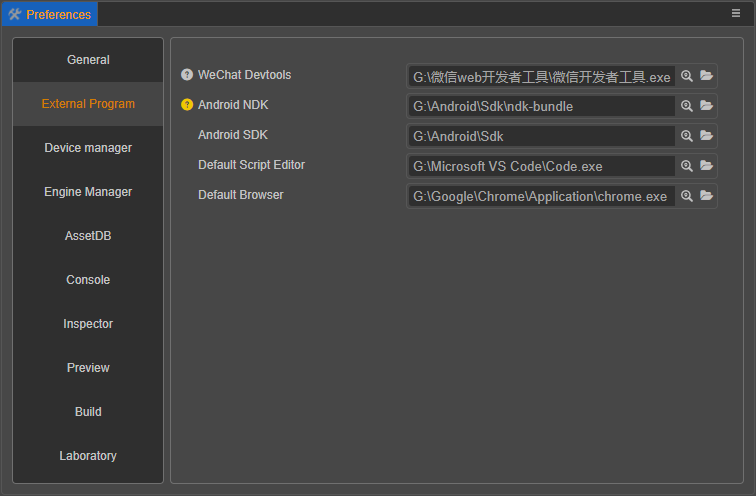
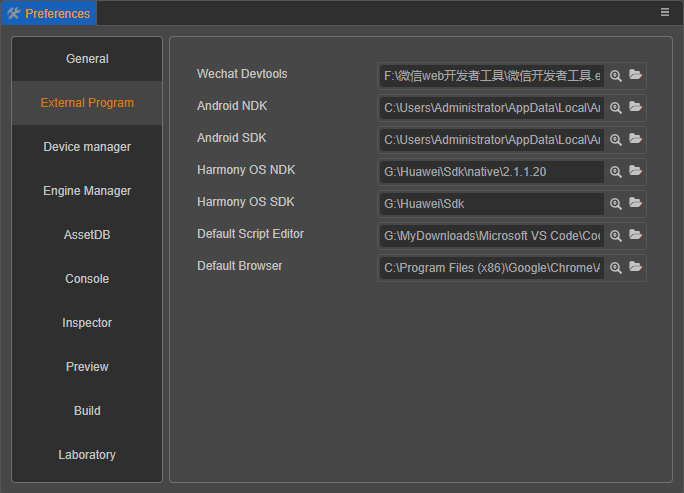
完善 PhysX 物理相关

diff --git a/en/editor/publish/publish-bytedance-mini-game.md b/en/editor/publish/publish-bytedance-mini-game.md
@@ -6,36 +6,86 @@
 
 The game submission, review and release process of a mini-game needs to comply with the requirements and standard processes of the Byte official specification. For specific information, please refer to the links at the end of this document.
 
-## Publish to ByteDance with Cocos Creator
+## Preparation
 
-1. Download the [ByteDance DevTools [cn]](https://microapp.bytedance.com/docs/zh-CN/mini-game/develop/developer-instrument/developer-instrument-update-and-download).
+1. Download the [ByteDance DevTools [cn]](https://microapp.bytedance.com/docs/zh-CN/mini-game/develop/developer-instrument/developer-instrument-update-and-download) and install it..
 
-2. Log in to [Developer Platform [cn]](https://microapp.bytedance.com/)to find your `mini game appid`. For details, please refer to the official [Access Guide [cn]](https://microapp.bytedance.com/docs/zh-CN/mini-game/introduction/plugin-reference/sign) documentation.
+2. Refer to the [ByteDance Mini Game Access Guide [cn]](https://microapp.bytedance.com/docs/zh-CN/mini-game/introduction/plugin-reference/sign/) to register, login and apply for mini games on the [ByteDance Developer Platform [cn]](https://microapp.bytedance.com/).
+
+3. After the application is approved, find the appid in **Development Management -> Development Settings** of the developer platform.
 
     ![appid](./publish-bytedance-mini-game/appid.png)
 
-3. Select the **ByteDance Mini Game** in the **Platform** in the **Build** panel, fill in the `mini game appid`, and then click **Build**
+## Publishing Process
+
+1. Use Cocos Creator to open the project to be published, open the **Build** panel from **Menu Bar -> Project**, select **ByteDance Mini Game** in **Platform**, fill in the **appid**, and click **Build**.
 
     ![build](./publish-bytedance-mini-game/build.png)
 
-4. Preview game
+    Click on the **ByteDance Mini Game** below to expand the build options configuration of ByteDance Mini Game:
 
-    Following this process, a `bytedance-mini-game` folder will be generated in the project's **build** directory (the name of the folder is based on the **Build Task Name**), then you can open your game with the **ByteDance DevTools**.
+    ![ByteDance options](./publish-bytedance-mini-game/build-options.png)
+
+    For the general build options settings, please refer to [General Build Options](build-options.md) for details. The ByteDance Mini Games specific build options are shown below, please refer to the **Build Options** section below for the filling rules.
+
+2. After the relevant parameters of the **Build** panel are set, click **Build** button.<br>When the build is complete, click the folder icon button below the corresponding build task to open the build release path, notice that a directory `bytedance-mini-game` (with the same name as the Build Task Name) is generated in the default release path `build` directory, which already contains the configuration files `game.json` and `project.config.json` of the ByteDance Mini Games environment.
+
+    ![package](./publish-bytedance-mini-game/package.png)
+
+3. Use the **ByteDance DevTools** to open the `bytedance-mini-game` folder generated by the build, open the ByteDance game project and preview the debugging game content. Please refer to the [Introduction to ByteDance DevTools [cn]](https://microapp.bytedance.com/docs/zh-CN/mini-game/develop/developer-instrument/development-assistance/mini-app-developer-instrument) for details on how to use the developer tools.
 
     ![tool](./publish-bytedance-mini-game/tool.jpg)
 
-## Build Options
+### Build Options
 
-Options | Optional or not | Default | Explanation
-- | - | - | -
-**appid** | Required | `testId` | The appid of the ByteDance Mini Games, it will be written to `project.config.json` file.
-**appSecret** | Currently only required when using PhysX | Empty | the AppSecret corresponding to the appid of the ByteDance Mini Games.
-**Remote server address** | Optional | Empty | The remote server address. Resources will then be obtained from this address.
-**Open data context root** | Optional | Empty | If an Open Data Context exists, use this root to specify the relative path of the Open Data Context folder in the build directory so that the directory is not overwritten or modified during the build.
-**Orientation** | Required | `landscape` | Device orientation, it will be written to `game.json` file.
-**physX.multiThread**| Optional | `false` | Only valid when using PhysX, whether to use multi-threaded mode.
-**physX.subThreadCount** | Optional | `1` | Only valid when using PhysX and use multi-threaded mode, the number of child threads.
-**physX.epsilon** | Optional | `0.001` | Only valid when using PhysX, the tolerance error.
+| Options | Description | Field name (for publishing with command line) |
+| :-- | :-- | :--
+| **Start Scene Asset Bundle** | If set, the start scene and its related dependent resources are built into the built-in Asset Bundle — [start-scene](../../asset/bundle.md#%E5%86%85%E7%BD%AE-asset-bundle) to speed up the resource loading of the start scene. | `startSceneAssetBundle` |
+| **Orientation** | Device orientation, it will be written to `game.json` file. | `orientation` |
+| **AppID** | The appid of the ByteDance Mini Games, it will be written to `project.config.json` file. | `appid` |
+| **appSecret** | The AppSecret corresponding to the AppID, used to pull the PhysX support library. Required only if **Project -> Project Settings -> Function Crop -> Physics System** in the main menu is set to **PhysX**. | `appSecret` |
+| **Remote server address** | This option is used to fill in the address of the remote server where the resources are stored. Developers need to manually upload the `remote` folder from the release package directory to the filled resource server after build. | `remoteServerAddress` |
+| **Open data context root** | For access to Open Data Context, please refer to the [Open Data Context](./build-open-data-context.md) documentation for details. | `buildOpenDataContextTemplate` |
+| **physX.multiThread**| If checked, multi-threaded mode is enabled, and only takes effect when **Project -> Project Settings -> Function Crop -> Physics System** in the main menu is set to **PhysX**. | `physX.multiThread` |
+| **physX.subThreadCount** | The number of child threads when multi-threaded mode is enabled, and only takes effect when using **PhysX** physics. | `physX.subThreadCount` |
+| **physX.epsilon** | Tolerance of errors, only takes effect when using **PhysX** physics. If this option is enabled, the precision will be lower when using multi-threaded mode than single-threaded. | `physX.epsilon` |
+
+## Native Physics
+
+The ByteDance platform has always been committed to providing developers with the more powerful performance and basic capabilities. TikTok will provide PhysX native physics interfaces for ByteDance mini games in v16.3 and later versions.
+
+Cocos Creator and the ByteDance platform have conducted in-depth collaboration, with the experimental feature in **v3.2** to support the use of PhysX physics capabilities provided by the ByteDance platform in ByteDance Mini Games, optimizing the performance of physics calculations, and having a nearly 100% performance improvement compared to Bullet physics:
+
+![compare performance](./publish-bytedance-mini-game/performance.png)
+
+The prerequisite for using native physics is to set **Physics System** to **PhysX** in **Project -> Project Settings -> Feature Crop** in the Creator main menu bar. Then open the **Build** panel with the **Platform** option set to **ByteDance Mini Game**, and see the native physics related configuration options as follows:
+
+![PhysX options](./publish-bytedance-mini-game/physx-options.png)
+
+For specific option descriptions, please refer to the **Build Options** section above.
+
+> **Note**:
+> 1. Currently, the native physics of the ByteDance platform only supports the Android version of TikTok, and the version must be greater or equal to v16.3.
+> 2. The ByteDance DevTools does not support running native physics, only previewing and debugging on a real devices.
+
+## Subpackage Loading
+
+The ByteDance Mini Game requires a specific version to support the subpackage feature, and the version requirements for the ByteDance product are as follows:
+
+| Product | Android     | iOS        |
+| :--     | :---        | :---       |
+| TikTok  | v13.6.0     | v13.7.0    |
+| TouTiao | v7.9.9      | v7.9.8     |
+
+For ByteDance DevTools, please use **v2.0.6** or above, but below **v3.0.0**. After updating the DevTools, don't forget to modify the **Debug Base library** to **1.88.0** or above in the ByteDance DevTools.
+
+> **Note**: if the product version does not support subpackage loading, the engine will load the subpackage as a normal asset bundle.
+
+Currently, the size of the ByteDance Mini Game subpackage has following restrictions:
+- The size of all subpackages of the entire mini game cannot exceed **16 M**
+- The size of a single subpackage/main package cannot exceed **4 M**
+
+For details, please refer to the [ByteDance Subpackage Loading Official Documentation [zh]](https://microapp.bytedance.com/docs/zh-CN/mini-game/develop/framework/subpackages/introduction)
 
 ## Asset Management for ByteDance Mini Game Environment
 
@@ -58,31 +108,6 @@ Specifically, developers need to do the following:
 3. When the build is complete, upload the **res** folder in the mini game release package to the server.
 4. Delete the **res** folder inside the local release package.
 5. For the test phase, you may not be able to deploy to the official server, you need to use the local server to test, then open the details page in the WeChat DevTools, check the `Does not verify valid domain names, web-view (business domain names), TLS versions and HTTPS certificates` option in the **Local Settings**.
-
-## Subpackage Loading
-
-The ByteDance Mini Game requires a specific version to support the subpackage feature, and the version requirements for the ByteDance product are as follows:
-
-| Product | Android     | iOS        |
-| :--     | :---        | :---       |
-| TikTok  | v13.6.0     | v13.7.0    |
-| TouTiao | v7.9.9      | v7.9.8     |
-
-For ByteDance DevTools, please use **v2.0.6** or above, but below **v3.0.0**. After updating the DevTools, don't forget to modify the **Debug Base library** to **1.88.0** or above in the ByteDance DevTools.
-
-> **Note**: if the product version does not support subpackage loading, the engine will load the subpackage as a normal asset bundle.
-
-Currently, the size of the ByteDance Mini Game subpackage has following restrictions:
-- The size of all subpackages of the entire mini game cannot exceed **16 M**
-- The size of a single subpackage/main package cannot exceed **4 M**
-
-For details, please refer to the [ByteDance Subpackage Loading Official Documentation [zh]](https://microapp.bytedance.com/docs/zh-CN/mini-game/develop/framework/subpackages/introduction)
-
-## Native Physics
-
-After the **v3.2** version, Cocos Creator has added the relevant parameters for configuring native physics in the build panel of the ByteDance platform (for details, please see the introduction of build options). The way to enable native physics is in While building the ByteDance Mini Game project, choose the **PhysX** physics module.
-
-> **Note**: ByteDance native physics only exists in the Android version of TikTok, and the version must be greater than or equal to **v16.3**, and the ByteDance DevTools does not support running native physics, only previewing and debuging on a real machine.
 
 ## Reference documentation
 

diff --git a/en/physics/physics-item.md b/en/physics/physics-item.md
@@ -1,14 +1,14 @@
 # Choosing The Physics System Suitable For Your Project
 
-In the panel **Project -> Project Settings -> Module Options** of the Editor, you can choose a physics engine suitable for the needs of the project for development.
+Click **Project -> Project Settings -> Feature Crop -> Physics System** in the editor's menu bar, to select the appropriate physics engine for development according to the project requirements. The default physics engine is **bullet（ammo.js）**, and the physics engine can be switched at will during the development process.
 
-![Physics Engine Options](img/physics-module.jpg)
+![Physics Engine Options](img/physics-module.png)
 
-> **Notes**:
-> 1. The default is `bullet(ammo.js)` physics engine.
-> 2. The physics engine can be switched at will during development.
+If there is no need to use any physically related components and interfaces, uncheck the "Physical System" checkbox and the package will be smaller when published. However, it should be noted that if the checkbox is unchecked, the project cannot use physically related components and interfaces, otherwise errors will be reported at runtime.
 
-## Collision Detection: builtin
+## Physics Engine Types
+
+### Collision Detection: builtin
 
 __builtin__ only has the function of collision detection. Compared with other physics engines, it has no complicated physical simulation calculations. If your project does not require the physical simulation of this part, you can consider using __builtin__, which will make the size of game's package smaller.
 
@@ -17,66 +17,59 @@ If you use __builtin__ for development, please note the following:
 - __builtin__ only has events of type __trigger__.
 - __isTrigger__ in __Collider__ component is a trigger regardless of whether the value is true or false.
 
-## Physics Engine: cannon.js
+### Physics Engine: cannon.js
 
 [cannon.js](https://github.com/cocos-creator/cannon.js) is an open source physics engine, which uses js language to develop and implement more comprehensive physics functions, if your project needs more complex physical functions, then you can consider using [cannon.js](https://github.com/cocos-creator/cannon.js). The size of the __cannon.js__ module is __141KB__.
 
-## Physics Engine: bullet(ammo.js)
+### Physics Engine: bullet(ammo.js)
 
 [ammo.js](https://github.com/cocos-creator/ammo.js) is the __asm.js__/__wasm__ Version of the [bullet](https://github.com/bulletphysics/bullet3) physics engine, it is compiled by [emscripten](https://github.com/emscripten-core/emscripten) tool. Bullet has perfect physical functions, and we will put more work here in the future.
 
 It should be noted that currently the __ammo.js__ module has a size of about __1.5MB__.
 
-## Physics Engine: PhysX
+### Physics Engine: PhysX
 
-**PhysX**（[GitHub](https://github.com/NVIDIAGameWorks/PhysX)）is an open source real-time commercial physics engine developed by Nvidia. It has perfect functional characteristics and extremely high stability, as well as excellent performance. 
+[PhysX](https://github.com/NVIDIAGameWorks/PhysX) is an open source real-time commercial physics engine developed by Nvidia. It has perfect functional characteristics and extremely high stability, as well as excellent performance.
 
-The **PhysX** currently supported in Cocos Creator is version 4.1 and is allowed to be used on most platforms. However, due to the large size of **PhysX** and some limitations of its own, there are some platforms Unable to get good support, these platforms are:
+The **PhysX** currently supported in Cocos Creator is version 4.1 and is allowed to be used on most platforms. PhysX physics is recommended for better physics performance when publishing to native platforms, especially when publishing to iOS.
 
-- Various Mini Games platforms with package body restrictions (the reason is that the package body of the **PhysX** library is about 5 MB)
-- Android x86 device
+However, due to the large package size of the **PhysX** (about 5MB) and some limitations of its own, it is not well supported on some platforms, including:
 
-Some newer platforms, such as HarmonyOS and Apple M1 devices, will be supported in the future. Please pay attention to the update announcement. In addition, the ByteDance platform provides the underlying native physics, so this module can also be run in ByteDance Mini Games. For specific details, please refer to [publish ByteDance Mini Games](../editor/publish/publish-bytedance-mini-game.md).
+- Various mini game platforms with package size restrictions.
+- Android x86 device.
 
-When publishing to the native platform, it is strongly recommended to use this module, to get good performance, especially the native application of the IOS system.
+Some newer platforms, such as HarmonyOS, Apple M1 (Silicon) architecture devices, will be supported in the future. Please pay attention to the update announcement.
 
-## Turning Off Physics
-
-To turn off physics and related components and interfaces, uncheck the yellow box, which helps lessen the package size when publishing.
-
-> **Note**: if it is unchecked, the project will not be able to use physics related components and interfaces, otherwise an error will be reported during runtime.
+In addition, the ByteDance platform provides the underlying native physics functionality, so this functionality can also be run in ByteDance Mini Games. For specific details, please refer to [publish ByteDance Mini Games](../editor/publish/publish-bytedance-mini-game.md).
 
 <!-- ## Expand the physical backend -->
 
-# Physics Engine Performance
+## Physics Engine Performance
 
 Mainly for various Mini Games platforms and native platforms, and compare **Bullet** and **PhysX**:
 
-- On native and ByteDance platforms, using **PhysX** can get the best performance
-- On various Mini Games platforms, use **Bullet** to get the best performance
+- On native and ByteDance Mini Game platforms, using **PhysX** can get the best performance.
+- On various Mini Game platforms, use **Bullet** to get the best performance.
 
-# Physics Engine Differences
+## Physics Engine Differences
 
 Different physics engines have different internal designs and algorithms, so there will be some different behaviors under the same parameters. These differences are mainly:
 
 - `damping` property on RigidBody components
+
+    The damping term is different because PhysX uses different damping algorithm models. But this difference has been eliminated internally. To synchronize the damping value previously set in PhysX, refer to the following code to convert:
+
+    ```ts
+    const dt = PhysicsSystem.instance.fixedTimeStep;
+    const newDamping = 1 - (1 - oldDamping * dt) ** (1 / dt);
+    ```
+
 - `factor` property on RigidBody components
-- PhysicsMaterial
 
-Difference details and some solutions:
+    This is caused by the fact that PhysX physics only fixes the degrees of freedom of the rigid body, and does not provide a scaling factor for the rigid body velocity, that is, the `Linear Factor` and `Angular Factor` properties in the rigid body component only have a fixed effect on PhysX physics. This difference will be removed internally.
 
-1. `damping`
-The damping term is different because PhysX uses different damping algorithm models.
-However, this difference has been eliminated internally. To synchronize the damping value previously set in PhysX, refer to the following code to convert:
-```ts
-const dt = PhysicsSystem.instance.fixedTimeStep;
-const newDamping = 1 - (1 - oldDamping * dt) ** (1 / dt);
-```
+- Physics material
 
-2. `factor`
-Scaling factor. Since PhysX has only limited functions, when using the PhysX module, when the factor is 0, it means that the movement of the corresponding axis is restricted. When it is not 0, it means that the corresponding axis can move freely. This difference will be eliminated internally in the future.
-
-3. PhysicsMaterial
-The physics material in PhysX supports static friction coefficient, dynamic friction coefficient and elastic coefficient. Compared with the PhysicsMaterial resources in Cocos Creator, it lacks the dynamic friction coefficient. The coefficient is currently consistent with the static friction coefficient. The difference in this part cannot be Provide expressions for conversion.
+    The physics material in PhysX supports static friction coefficient, dynamic friction coefficient and elastic coefficient. Compared with the PhysicsMaterial resources in Cocos Creator, it lacks the dynamic friction coefficient. The coefficient is currently consistent with the static friction coefficient. The difference in this part cannot be Provide expressions for conversion.
 
 In addition to the points mentioned above, there are also differences in other algorithms, such as differences in numerical integration methods, LCP solving algorithms, solution accuracy, etc., so there will always be different effects, but these are not easy in actual project development. Perception.

diff --git a/zh/editor/publish/publish-bytedance-mini-game.md b/zh/editor/publish/publish-bytedance-mini-game.md
@@ -22,7 +22,7 @@
 
     通用构建选项的设置请参考 [通用构建选项](build-options.md)，字节跳动小游戏特有的构建选项如下，具体说明请参考下文 **构建选项** 部分的内容。
 
-    ![bytedance-options](./publish-bytedance-mini-game/bytedance-build.png)
+    ![bytedance-options](./publish-bytedance-mini-game/build-options.png)
 
 2. **构建发布** 面板的构建选项设置完成后，点击 **构建**。<br>
     构建完成后点击 **构建任务** 左下角的文件夹图标按钮打开项目发布包，可以看到在默认发布路径 `build` 目录下生成了 `bytedance-mini-game`（以具体的构建任务名为准）文件夹，其中已经包含了字节跳动小游戏环境的配置文件 `game.json` 和 `project.config.json`。
@@ -33,19 +33,35 @@
 
     ![tool](./publish-bytedance-mini-game/tool.png)
 
-### 构建选项介绍
+### 构建选项
 
 | 构建选项 | 说明 | 字段名（用于命令行发布） |
 | :---- | :-- | :-- |
 | 初始场景分包 | 勾选后，首场景及其相关的依赖资源会被构建到发布包目录 `assets` 下的内置 Asset Bundle — [start-scene](../../asset/bundle.md#%E5%86%85%E7%BD%AE-asset-bundle) 中，提高初始场景的资源加载速度。 | `startSceneAssetBundle` |
 | 设备方向 | 可选值包括 **Portrait** 和 **Landscape**。构建时会写入到发布包目录下的 `game.json` 文件中 | `orientation` |
 | AppID | 必填项，字节跳动小游戏的 AppID，构建时会写入到发布包目录下的 `project.config.json` 文件中。 | `appid` |
-| AppSecret | 目前仅在使用 PhysX 物理时必填，字节跳动小游戏 AppID 对应的 AppSecret。 | `appSecret` |
+| AppSecret | AppID 对应的 AppSecret，用于拉取 PhysX 支持库，仅在物理系统选择为 **PhysX 物理** 时必填 | `appSecret` |
 | 资源服务器地址 | 用于填写资源存放在远程服务器上的地址。开发者需要在构建后手动将发布包目录下的 `remote` 文件夹上传到所填写的资源服务器地址上。详情请参考 [上传资源到远程服务器](../../asset/cache-manager.md) | `remoteServerAddress` |
 | 生成开放数据域工程模板 | 用于接入开放数据域，详情请参考 [开放数据域](./build-open-data-context.md) | `buildOpenDataContextTemplate` |
-| PhysX - multiThread | 仅在使用 PhysX 物理时有效，是否使用多线程模式 | `physX.multiThread` |
-| PhysX - subThreadCount | 仅在使用 PhysX 物理且开启多线程模式时有效，子线程个数 | `physX.subThreadCount` |
-| PhysX - epsilon | 仅在使用 PhysX 物理时有效，容忍误差 | `physX.epsilon` |
+| PhysX - multiThread | 是否启用多线程模式，仅在使用 PhysX 物理时生效 | `physX.multiThread` |
+| PhysX - subThreadCount | 启用多线程模式时子线程的个数，仅在使用 PhysX 物理时生效 | `physX.subThreadCount` |
+| PhysX - epsilon | 容忍误差，仅在使用 PhysX 物理时生效。若启用该项，则使用多线程模式时的精度会比单线程的低。 | `physX.epsilon` |
+
+## 原生物理
+
+字节跳动平台一直致力于为开发者提供更强大的性能和基础能力，抖音将在 v16.3 及之后的版本为小游戏提供 PhysX 原生物理接口。而 Creator 与字节跳动平台进行了深度合作，在 **v3.2** 中以实验性功能支持在字节跳动小游戏中使用平台提供的 PhysX 物理能力，优化物理运算性能，对比使用 Bullet 物理有近 100% 的性能提升：
+
+![compare performance](./publish-bytedance-mini-game/performance.png)
+
+使用原生物理的前提是需要在主菜单栏的 **项目 -> 项目设置 -> 功能裁剪** 中将 **物理系统** 设置为 **PhysX 物理**。然后打开 **构建发布** 面板，**发布平台** 选择 **字节跳动小游戏**，可以看到原生物理相关的配置选项如下：
+
+![PhysX options](./publish-bytedance-mini-game/physx-options.png)
+
+具体的选项说明请参考上文 **构建选项介绍** 部分的内容。
+
+> **注意**：
+> 1. 字节跳动平台的原生物理目前仅支持安卓版本的抖音，且版本需大于等于 **v16.3**。
+> 2. 字节跳动开发者工具目前还不支持运行原生物理，只能真机预览和调试。
 
 ## 分包加载
 
@@ -73,12 +89,6 @@
 字节跳动小游戏与微信小游戏类似，都存在着包体限制，超过 4MB 的额外资源，必须通过网络请求下载。
 
 我们建议用户只保存脚本文件在小游戏包内，其他资源都从远程服务器下载。Cocos Creator 已经帮用户做好了远程资源的下载、缓存和版本管理，详情可参考 [缓存管理器](../../asset/cache-manager.md)。
-
-## 原生物理
-
-在 **v3.2** 版本后，Cocos Creator 在字节平台的构建面板中增加了配置字节原生物理的相关参数（详细说明请看构建选项介绍），开启字节原生物理的方式是在构建字节小游戏项目的同时，选择 **PhysX** 物理模块。
-
-但需要注意的是，目前字节原生物理仅存在于安卓版本的抖音，且版本需大于等于 **v16.3** ，并且字节开发者工具还不支持运行字节原生物理，因此只能真机预览和调试。
 
 ## 参考链接
 

diff --git a/zh/editor/publish/publish-huawei-ohos.md b/zh/editor/publish/publish-huawei-ohos.md
@@ -48,9 +48,11 @@
 
 2. 准备签名文件，签名文件的获取方式请参考下文 **签名文件** 部分的内容。
 
-3. 配置签名文件。点击 DevEco Studio 菜单栏中的 **File -> Project Structure**，然后选择 **Modules -> entry**，在 **Signing Configs** 页面 [配置签名信息](https://developer.harmonyos.com/cn/docs/documentation/doc-guides/ide_debug_device-0000001053822404#ZH-CN_TOPIC_0000001154985555__section19238119191816)。
+3. 配置签名文件。点击 DevEco Studio 菜单栏中的 **File -> Project Structure**，选择 **Modules -> entry**，在 **Signing Configs** 页面 [配置签名信息](https://developer.harmonyos.com/cn/docs/documentation/doc-guides/ide_debug_device-0000001053822404#ZH-CN_TOPIC_0000001154985555__section19238119191816)。
 
     ![sign configs](./publish-huawei-ohos/sign-configs-debug.png)
+
+    然后继续在 **Project -> Signing Configs** 中配置签名信息。
 
     设置完成并保存后，配置的签名信息可以在项目目录下的 `native\engine\ohos\entry\build.gradle` 文件中查看。
 
@@ -73,6 +75,8 @@
 5. 使用 USB 连接 HarmonyOS 系统的华为设备，然后点击菜单栏中的 **Run -> Run ‘entry’**，或者点击上方的运行按钮，即可将 HarmonyOS 应用运行到设备上。详情可参考 [运行 HarmonyOS 应用](https://developer.harmonyos.com/cn/docs/documentation/doc-guides/run_phone_tablat-0000001064774652)。
 
     ![run project](./publish-huawei-ohos/run-project.png)
+
+    > **注意**：若运行到设备上时发现找不到图标，可检查一下项目目录下的 `native\engine\ohos\entry\src\main\config.json` 中是否有 `installationFree` 字段并为 `true`，将其改为 `false` 即可。
 
 6. 若需要上传并发布 HarmonyOS 应用到华为应用市场，具体流程请参考官方文档 [发布 HarmonyOS 应用指南](https://developer.huawei.com/consumer/cn/doc/distribution/app/agc-harmonyapp-releaseharmonyapp)。
 

diff --git a/en/editor/publish/publish-huawei-ohos.md b/en/editor/publish/publish-huawei-ohos.md
@@ -52,6 +52,8 @@ Starting with v3.2, Cocos Creator supports packaging games as Huawei **HarmonyOS
 
     ![sign configs](./publish-huawei-ohos/sign-configs-debug.png)
 
+    Then proceed to configure the signature information in **Project -> Signing Configs**.
+
     After setting and saving, the configured signature information can be viewed in the project directory in the `native\engine\ohos\entry\build.gradle` file in the project directory.
 
     Depending on the build type (Debug/Release) and whether the generated `.hap` contains signature information, the developer can configure in combination as needed, please refer to the [Building and Creating HAPs](https://developer.harmonyos.com/en/docs/documentation/doc-guides/build_hap-0000001053342418) documentation for details.
@@ -73,6 +75,8 @@ Starting with v3.2, Cocos Creator supports packaging games as Huawei **HarmonyOS
 5. Connect Huawei devices with HarmonyOS system using USB, then click **Run -> Run ‘entry’** in the menu bar or click the Run button above to run the HarmonyOS app to your device. Please refer to the [Running Your App](https://developer.harmonyos.com/en/docs/documentation/doc-guides/run_phone_tablat-0000001064774652) documentation for details.
 
     ![run project](./publish-huawei-ohos/run-project.png)
+
+    > **Note**: if the app icon is not found when running on the device, check if there is an `installationFree` field with `true` in the `native\engine\ohos\entry\src\main\config.json` file in the project directory, change it to `false`.
 
 6. If need to upload and publish HarmonyOS apps to Huawei AppGallery Connect, please refer to the official [Release HarmonyOS Application Guide](https://developer.huawei.com/consumer/en/doc/distribution/app/agc-harmonyapp-releaseharmonyapp) documentation for the specific process.
 

diff --git a/en/editor/preferences/index.md b/en/editor/preferences/index.md
@@ -38,6 +38,10 @@ The **External Program** tab is used to set up the development environment requi
 
 - **Android SDK**: used to set the Android SDK path, please refer to the [Setup Native Development Environment](../publish/setup-native-development.md) documentation.
 
+- **HarmonyOS SDK**: used to set the HarmonyOS SDK path, please refer to the [Publish for the Huawei HarmonyOS](../publish/publish-huawei-ohos.md) documentation.
+
+- **HarmonyOS NDK**: used to set the HarmonyOS NDK path, please refer to the [Publish for the Huawei HarmonyOS](../publish/publish-huawei-ohos.md) documentation.
+
 - **Default Script Editor**: choose any executable file from an external text editing tool (e.g. VS Code) as the way to open the script file when you double-click it in the **Assets** panel. The executable file of the preferred text editor can be selected by clicking the **Search** button after the input box. The folder icon is used to open the path to the text editor that has been set up.
 
 - **Default Browser**: used to select the browser to be used when previewing the editor. A browser path can be specified by clicking the **Search icon** button behind the input box.

diff --git a/zh/editor/preferences/index.md b/zh/editor/preferences/index.md
@@ -38,6 +38,10 @@
 
 - **Android SDK**：设置 Android SDK 路径，详情请参考 [安装配置原生开发环境](../publish/setup-native-development.md)。
 
+- **鸿蒙 OS SDK**：设置 HarmonyOS SDK 路径，详情请参考 [发布 Huawei HarmonyOS 应用](../publish/publish-huawei-ohos.md)。
+
+- **鸿蒙 OS NDK 路径**：设置 HarmonyOS NDK 路径，详情请参考 [发布 Huawei HarmonyOS 应用](../publish/publish-huawei-ohos.md)。
+
 - **默认脚本编辑器**：可以选用任意外部文本编辑工具（例如 VS Code）的可执行文件，作为在 **资源管理器** 中双击脚本文件时的打开方式。可以点击输入框后面的 **搜索图标** 按钮选择偏好的文本编辑器的可执行文件。文件夹图标则用于打开已设置完成的文本编辑器的所在路径。
 
 - **默认浏览器**：用于选择编辑器预览时使用的浏览器，可点击输入框后面的 **搜索图标** 按钮指定一个浏览器的路径。
